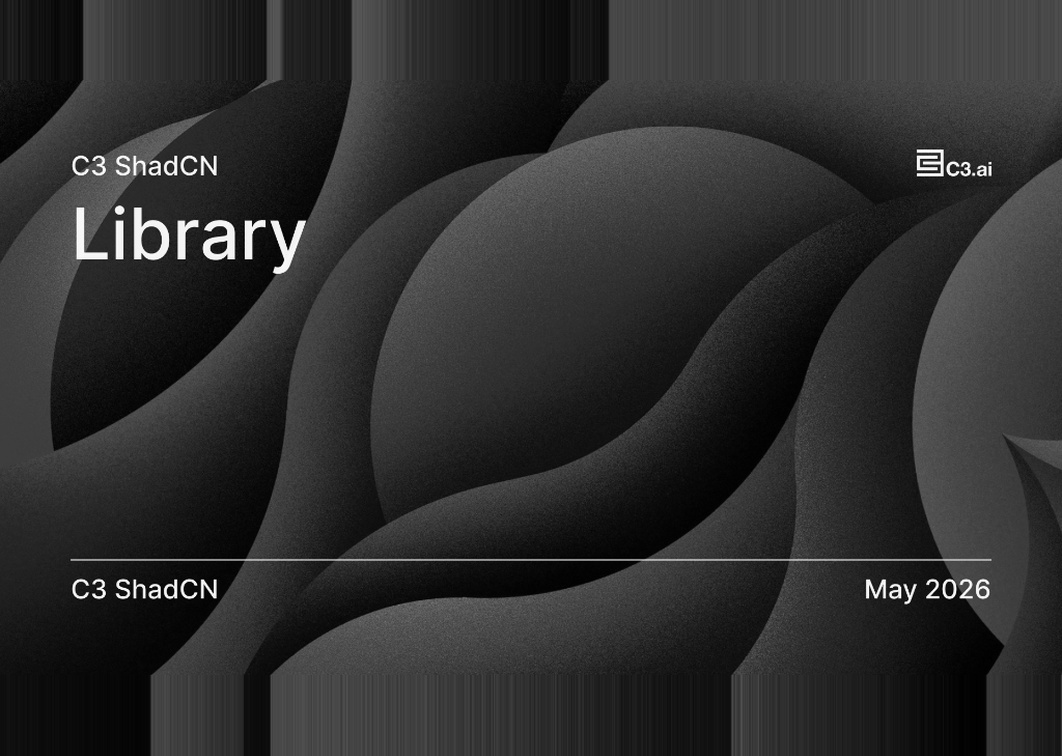
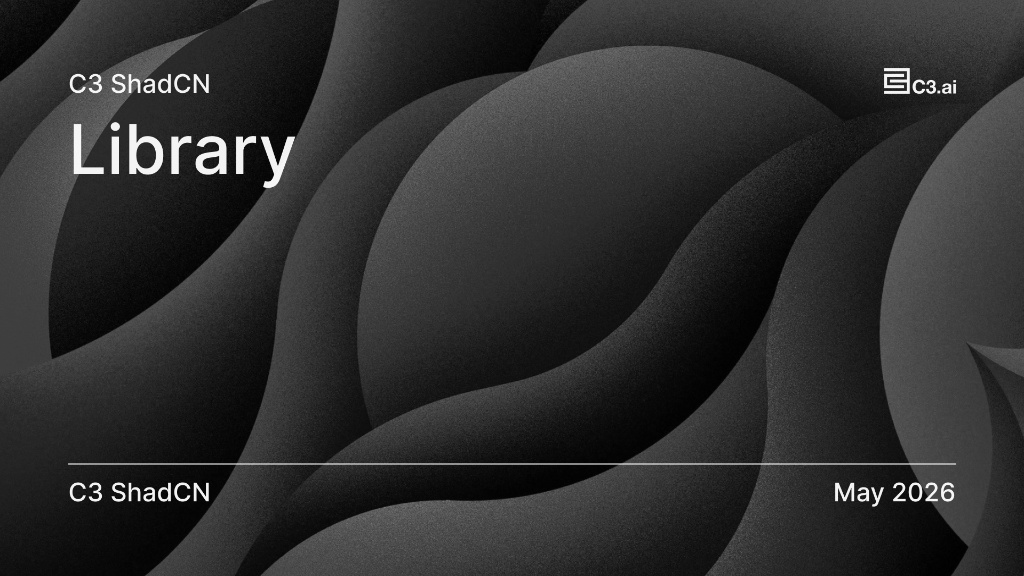
Change card aspect ratio to 16/9 widescreen, remove design filter bar and filtering script, and update Prism Design System card to fit proportionally

diff --git a/design/index.html b/design/index.html
@@ -80,18 +80,6 @@
 
         <section class="section" style="padding-top: 0;">
             <div class="container">
-
-                <!-- Filter Bar -->
-                <div class="filter-bar" id="filterBar">
-                    <button class="filter-btn active" data-filter="all">All</button>
-                    <button class="filter-btn" data-filter="Enterprise">Enterprise</button>
-                    <button class="filter-btn" data-filter="AI">AI</button>
-                    <button class="filter-btn" data-filter="AI Coded">AI Coded</button>
-                    <button class="filter-btn" data-filter="Design Systems">Design Systems</button>
-                    <button class="filter-btn" data-filter="Product Design">Product Design</button>
-                    <button class="filter-btn" data-filter="Full-Stack">Full-Stack</button>
-                </div>
-
                 <div class="grid case-studies-grid" id="projectsGrid">
 
                     <!-- C3.ai Overview -->
@@ -138,7 +126,7 @@
                         <a href="prism-design-system.html">
                             <div class="card-image">
                                 <img src="../assets/images/prism-thumb.png" alt="Prism Design System"
-                                    style="width: 100%; height: 100%; object-fit: cover;">
+                                    style="width: 100%; height: 100%; object-fit: contain; background: #ffffff;">
                             </div>
                         </a>
                         <div class="card-content">
@@ -222,35 +210,6 @@
     </footer>
 
     <script src="../assets/js/main.js"></script>
-    <script>
-        // ── Project filter logic ──
-        const filterBar = document.getElementById('filterBar');
-        const cards = document.querySelectorAll('#projectsGrid .case-study-card');
-
-        filterBar.addEventListener('click', function (e) {
-            const btn = e.target.closest('.filter-btn');
-            if (!btn) return;
-
-            // Update active state
-            filterBar.querySelectorAll('.filter-btn').forEach(b => b.classList.remove('active'));
-            btn.classList.add('active');
-
-            const filter = btn.dataset.filter;
-
-            cards.forEach(card => {
-                if (filter === 'all') {
-                    card.removeAttribute('data-hidden');
-                } else {
-                    const tags = (card.dataset.tags || '').split(',').map(t => t.trim());
-                    if (tags.includes(filter)) {
-                        card.removeAttribute('data-hidden');
-                    } else {
-                        card.setAttribute('data-hidden', 'true');
-                    }
-                }
-            });
-        });
-    </script>
 </body>
 
 </html>

diff --git a/assets/css/style.css b/assets/css/style.css
@@ -458,7 +458,7 @@ blockquote {
 
 .card-image {
     width: 100%;
-    aspect-ratio: 4/3;
+    aspect-ratio: 16/9;
     background-color: var(--bg-secondary);
     margin-bottom: var(--spacing-sm);
     overflow: hidden;